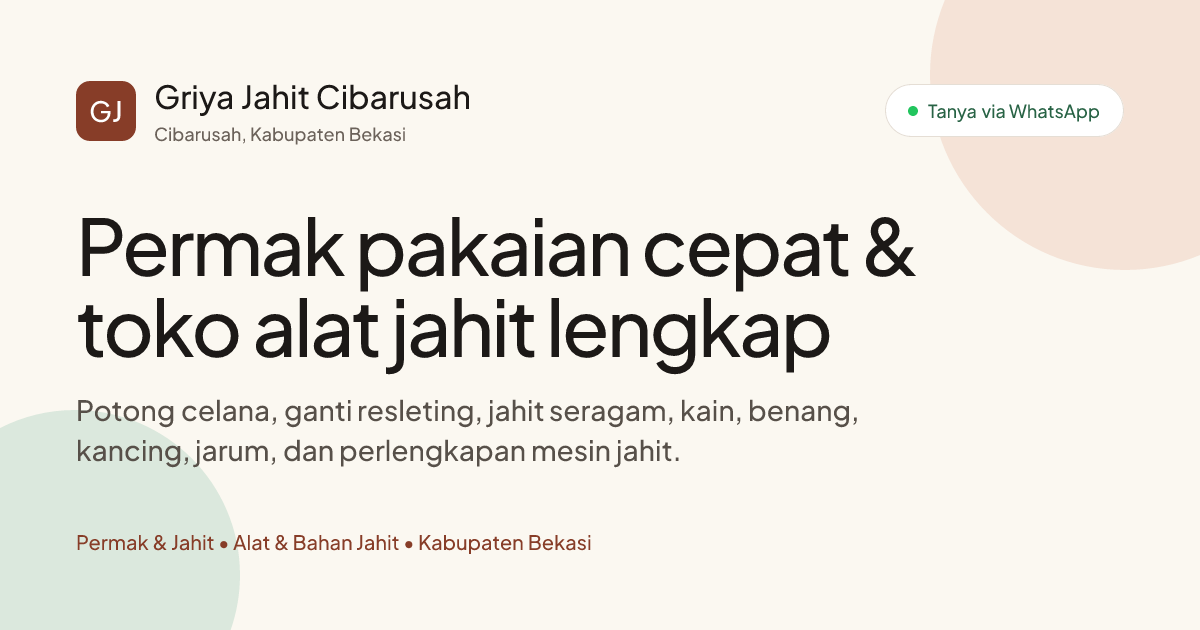
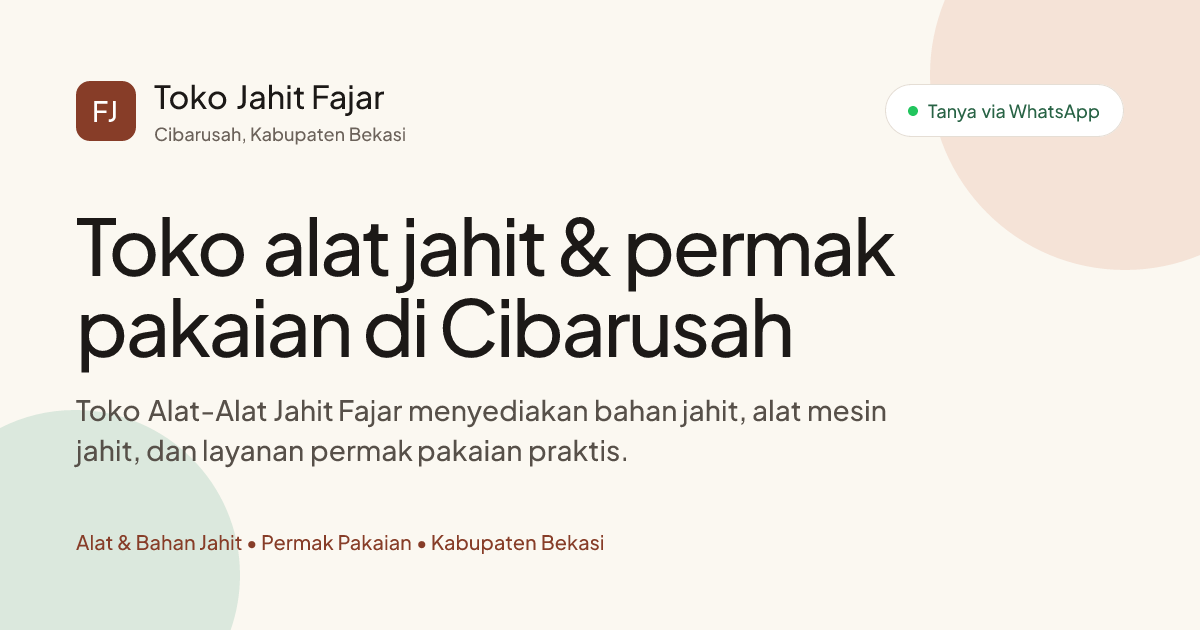
Update branding and Vercel deployment metadata

diff --git a/index.html b/index.html
@@ -6,45 +6,50 @@
     <meta name="robots" content="index, follow" />
     <meta name="theme-color" content="#fbf8f1" />
 
-    <title>Griya Jahit Cibarusah | Permak Pakaian & Toko Alat Jahit</title>
+    <title>Toko Jahit Fajar | Toko Alat Jahit & Permak Pakaian Cibarusah</title>
     <meta
       name="description"
-      content="Permak pakaian, jahit baju, dan toko alat jahit di Cibarusah, Kabupaten Bekasi. Melayani potong celana, ganti resleting, jahit seragam, kain, benang, kancing, jarum, dan perlengkapan mesin jahit."
+      content="Toko Alat-Alat Jahit Fajar menyediakan alat dan bahan jahit serta layanan permak pakaian di Cibarusah, Kabupaten Bekasi. Tersedia benang, resleting, kancing, jarum, kain, perlengkapan mesin jahit, potong celana, dan ganti resleting."
     />
-    <meta name="author" content="Griya Jahit Cibarusah" />
-    <link rel="canonical" href="https://al-mutawakkil.github.io/griya-jahit-landing-page/" />
-    <link rel="manifest" href="/griya-jahit-landing-page/site.webmanifest" />
+    <meta name="author" content="Toko Jahit Fajar" />
+    <link rel="canonical" href="https://toko-jahit-fajar.vercel.app/" />
+    <link rel="manifest" href="/site.webmanifest" />
 
     <meta property="og:type" content="website" />
-    <meta property="og:url" content="https://al-mutawakkil.github.io/griya-jahit-landing-page/" />
-    <meta property="og:title" content="Griya Jahit Cibarusah | Permak Pakaian & Toko Alat Jahit" />
+    <meta property="og:url" content="https://toko-jahit-fajar.vercel.app/" />
+    <meta property="og:title" content="Toko Jahit Fajar | Toko Alat Jahit & Permak Pakaian Cibarusah" />
     <meta
       property="og:description"
-      content="Permak pakaian, jahit baju, dan toko alat jahit di Cibarusah, Kabupaten Bekasi. Cek jasa jahit dan tanya stok alat jahit via WhatsApp."
+      content="Toko Alat-Alat Jahit Fajar menyediakan alat jahit, bahan jahit, dan layanan permak pakaian di Cibarusah, Kabupaten Bekasi."
     />
-    <meta property="og:image" content="https://al-mutawakkil.github.io/griya-jahit-landing-page/og-image.png" />
+    <meta property="og:image" content="https://toko-jahit-fajar.vercel.app/og-image.png" />
     <meta property="og:image:width" content="1200" />
     <meta property="og:image:height" content="630" />
-    <meta property="og:site_name" content="Griya Jahit Cibarusah" />
+    <meta property="og:site_name" content="Toko Jahit Fajar" />
     <meta property="og:locale" content="id_ID" />
 
     <meta name="twitter:card" content="summary_large_image" />
-    <meta name="twitter:url" content="https://al-mutawakkil.github.io/griya-jahit-landing-page/" />
-    <meta name="twitter:title" content="Griya Jahit Cibarusah | Permak Pakaian & Toko Alat Jahit" />
+    <meta name="twitter:url" content="https://toko-jahit-fajar.vercel.app/" />
+    <meta name="twitter:title" content="Toko Jahit Fajar | Toko Alat Jahit & Permak Pakaian Cibarusah" />
     <meta
       name="twitter:description"
-      content="Permak pakaian, jahit baju, dan toko alat jahit di Cibarusah, Kabupaten Bekasi."
+      content="Alat jahit, bahan jahit, dan permak pakaian di Cibarusah, Kabupaten Bekasi."
     />
-    <meta name="twitter:image" content="https://al-mutawakkil.github.io/griya-jahit-landing-page/og-image.png" />
+    <meta name="twitter:image" content="https://toko-jahit-fajar.vercel.app/og-image.png" />
 
     <script type="application/ld+json">
       {
         "@context": "https://schema.org",
-        "@type": "LocalBusiness",
-        "name": "Griya Jahit Cibarusah",
-        "url": "https://al-mutawakkil.github.io/griya-jahit-landing-page/",
-        "image": "https://al-mutawakkil.github.io/griya-jahit-landing-page/og-image.png",
-        "description": "Permak pakaian, jahit baju, dan toko alat jahit di Cibarusah, Kabupaten Bekasi.",
+        "@type": "Store",
+        "name": "Toko Alat-Alat Jahit \"Fajar\"",
+        "alternateName": [
+          "Toko Jahit Fajar",
+          "Toko Alat Jahit Fajar",
+          "Fajar Cibarusah"
+        ],
+        "url": "https://toko-jahit-fajar.vercel.app/",
+        "image": "https://toko-jahit-fajar.vercel.app/og-image.png",
+        "description": "Toko alat dan bahan jahit serta layanan permak pakaian di Cibarusah, Kabupaten Bekasi.",
         "telephone": "[phone redacted]",
         "priceRange": "$$",
         "address": {
@@ -69,8 +74,15 @@
         ],
         "hasOfferCatalog": {
           "@type": "OfferCatalog",
-          "name": "Jasa Jahit dan Toko Alat Jahit",
+          "name": "Alat Jahit, Bahan Jahit, dan Permak Pakaian",
           "itemListElement": [
+            {
+              "@type": "Offer",
+              "itemOffered": {
+                "@type": "Product",
+                "name": "Alat dan bahan jahit"
+              }
+            },
             {
               "@type": "Offer",
               "itemOffered": {
@@ -83,13 +95,6 @@
               "itemOffered": {
                 "@type": "Service",
                 "name": "Jahit pakaian baru dan seragam"
-              }
-            },
-            {
-              "@type": "Offer",
-              "itemOffered": {
-                "@type": "Product",
-                "name": "Alat dan bahan jahit"
               }
             }
           ]

diff --git a/src/App.tsx b/src/App.tsx
@@ -29,9 +29,9 @@ const heroImage = `${import.meta.env.BASE_URL}images/griya-jahit-workshop.png`;
 const suppliesImage = `${import.meta.env.BASE_URL}images/alat-bahan-jahit.png`;
 
 const repairMessage =
-  "Halo Griya Jahit Cibarusah, saya mau tanya permak/jahit pakaian. Saya akan kirim foto kondisi pakaiannya untuk dicek dulu.";
+  "Halo Toko Jahit Fajar, saya mau tanya permak/jahit pakaian. Saya akan kirim foto kondisi pakaiannya untuk dicek dulu.";
 const suppliesMessage =
-  "Halo Griya Jahit Cibarusah, saya mau tanya stok alat atau bahan jahit. Apakah bisa dibantu cek ketersediaannya?";
+  "Halo Toko Jahit Fajar, saya mau tanya stok alat atau bahan jahit. Apakah bisa dibantu cek ketersediaannya?";
 
 const categories: Array<SupplyItem["category"] | "semua"> = [
   "semua",
@@ -97,7 +97,7 @@ export default function App() {
           </div>
           <a
             className="inline-flex w-fit items-center gap-1.5 font-semibold text-emerald-300 hover:text-emerald-200"
-            href={createWhatsAppUrl("Halo Griya Jahit Cibarusah, saya mau bertanya.")}
+            href={createWhatsAppUrl("Halo Toko Jahit Fajar, saya mau bertanya.")}
             target="_blank"
             rel="noreferrer"
           >
@@ -109,16 +109,16 @@ export default function App() {
 
       <header className="sticky top-0 z-40 border-b border-stone-200 bg-cream/95 backdrop-blur">
         <div className="mx-auto flex h-18 max-w-7xl items-center justify-between px-4 sm:px-6 lg:px-8">
-          <a className="flex items-center gap-3" href="#beranda" aria-label="Griya Jahit Cibarusah">
+          <a className="flex items-center gap-3" href="#beranda" aria-label="Toko Jahit Fajar">
             <span className="grid h-11 w-11 place-items-center rounded-lg bg-clay-700 text-white shadow-sm">
               <Store size={22} />
             </span>
             <span>
               <span className="block font-serif text-xl font-bold leading-none text-stone-950">
-                Griya Jahit Cibarusah
+                Toko Jahit Fajar
               </span>
               <span className="mt-1 block text-[11px] font-semibold uppercase tracking-wide text-stone-500">
-                Permak, jahit, alat & bahan
+                Toko Alat-Alat Jahit Fajar
               </span>
             </span>
           </a>
@@ -184,39 +184,41 @@ export default function App() {
               </div>
 
               <h1 className="max-w-3xl font-serif text-4xl font-bold leading-tight tracking-tight text-stone-950 sm:text-5xl lg:text-6xl">
-                Permak pakaian cepat & toko alat jahit lengkap di Cibarusah
+                Toko Jahit Fajar
               </h1>
 
               <p className="mt-6 max-w-2xl text-base leading-8 text-stone-650 sm:text-lg">
-                Kami melayani potong celana, ganti resleting, kecilkan ukuran, jahit pakaian dari
-                bahan sendiri, sekaligus menyediakan kain, benang, kancing, jarum, dan perlengkapan
-                mesin jahit untuk kebutuhan harian di Cibarusah dan sekitar Kabupaten Bekasi.
+                Toko Alat-Alat Jahit Fajar menyediakan kain, benang, kancing, jarum, resleting,
+                dan perlengkapan mesin jahit, sekaligus melayani permak pakaian seperti potong
+                celana, ganti resleting, dan jahit sederhana di Cibarusah.
               </p>
 
               <div className="mt-8 flex flex-col gap-3 sm:flex-row">
                 <a
                   className="inline-flex min-h-12 items-center justify-center gap-2 rounded-xl bg-forest-700 px-6 py-3 text-sm font-bold text-white shadow-md hover:bg-forest-800"
+                  href={createWhatsAppUrl(suppliesMessage)}
+                  target="_blank"
+                  rel="noreferrer"
+                >
+                  <PackageSearch size={18} />
+                  Tanya Stok via WhatsApp
+                </a>
+                <a
+                  className="inline-flex min-h-12 items-center justify-center gap-2 rounded-xl border border-stone-250 bg-white px-6 py-3 text-sm font-bold text-stone-800 shadow-sm hover:border-clay-300 hover:text-clay-700"
                   href={createWhatsAppUrl(repairMessage)}
                   target="_blank"
                   rel="noreferrer"
                 >
                   <Send size={17} />
-                  Kirim Foto via WhatsApp
-                </a>
-                <a
-                  className="inline-flex min-h-12 items-center justify-center gap-2 rounded-xl border border-stone-250 bg-white px-6 py-3 text-sm font-bold text-stone-800 shadow-sm hover:border-clay-300 hover:text-clay-700"
-                  href="#alat-jahit"
-                >
-                  <PackageSearch size={18} />
-                  Cari Alat Jahit
+                  Kirim Foto Pakaian
                 </a>
               </div>
 
               <div className="mt-8 grid max-w-2xl grid-cols-1 gap-3 sm:grid-cols-3">
                 {[
                   ["Harga jelas", "Disepakati setelah pakaian dicek"],
-                  ["Lokal Cibarusah", "Melayani sekitar Bekasi Regency"],
-                  ["Dua kebutuhan", "Jasa jahit dan toko perlengkapan"],
+                  ["Lokal Cibarusah", "Melayani sekitar Kabupaten Bekasi"],
+                  ["Dua kebutuhan", "Toko perlengkapan dan jasa jahit"],
                 ].map(([title, detail]) => (
                   <div key={title} className="rounded-xl border border-stone-200 bg-white p-4 shadow-sm">
                     <p className="text-sm font-bold text-stone-950">{title}</p>
@@ -232,12 +234,12 @@ export default function App() {
                 <img
                   className="aspect-[4/3] w-full object-cover sm:aspect-[5/4]"
                   src={heroImage}
-                  alt="Interior Griya Jahit Cibarusah dengan mesin jahit dan rak kain"
+                  alt="Interior Toko Jahit Fajar dengan mesin jahit dan rak kain"
                 />
                 <div className="absolute inset-x-0 bottom-0 bg-gradient-to-t from-stone-950/85 to-transparent p-5 text-white">
                   <p className="text-xs font-bold uppercase tracking-wide text-clay-100">Workshop rumah jahit</p>
                   <p className="mt-1 text-sm text-stone-100">
-                    Perbaikan pakaian harian dan perlengkapan jahit dalam satu tempat.
+                    Alat jahit, bahan jahit, dan perbaikan pakaian harian dalam satu tempat.
                   </p>
                 </div>
               </div>
@@ -249,8 +251,8 @@ export default function App() {
           <div className="mx-auto max-w-7xl">
             <SectionIntro
               eyebrow="Pilih kebutuhan Anda"
-              title="Dua jalur yang jelas untuk pelanggan yang berbeda"
-              description="Walk-in alteration dan pembeli perlengkapan jahit punya tujuan berbeda, jadi halaman ini memisahkannya sejak awal."
+              title="Belanja alat jahit atau tanya permak pakaian"
+              description="Pembeli perlengkapan jahit dan pelanggan permak punya tujuan berbeda, jadi halaman ini memisahkannya sejak awal."
             />
 
             <div className="mt-10 grid gap-5 lg:grid-cols-3">
@@ -408,7 +410,7 @@ export default function App() {
                       <a
                         className="mt-4 inline-flex items-center gap-1.5 text-xs font-bold text-forest-800 hover:text-forest-900"
                         href={createWhatsAppUrl(
-                          `Halo Griya Jahit Cibarusah, saya mau tanya stok ${item.name}. Apakah tersedia?`,
+                          `Halo Toko Jahit Fajar, saya mau tanya stok ${item.name}. Apakah tersedia?`,
                         )}
                         target="_blank"
                         rel="noreferrer"
@@ -497,7 +499,7 @@ export default function App() {
               <div className="mt-7 flex flex-col gap-3 sm:flex-row">
                 <a
                   className="inline-flex min-h-12 items-center justify-center gap-2 rounded-xl bg-forest-700 px-6 py-3 text-sm font-bold text-white hover:bg-forest-800"
-                  href={createWhatsAppUrl("Halo Griya Jahit Cibarusah, saya mau tanya alamat dan jam buka toko.")}
+                  href={createWhatsAppUrl("Halo Toko Jahit Fajar, saya mau tanya alamat dan jam buka toko.")}
                   target="_blank"
                   rel="noreferrer"
                 >
@@ -534,7 +536,7 @@ export default function App() {
       <footer className="border-t border-stone-200 bg-stone-950 px-4 py-8 text-stone-300 sm:px-6 lg:px-8">
         <div className="mx-auto flex max-w-7xl flex-col gap-4 sm:flex-row sm:items-center sm:justify-between">
           <div>
-            <p className="font-serif text-lg font-bold text-white">Griya Jahit Cibarusah</p>
+            <p className="font-serif text-lg font-bold text-white">Toko Jahit Fajar</p>
             <p className="mt-1 text-xs text-stone-400">Permak pakaian, jahit custom, alat & bahan jahit.</p>
           </div>
           <a

diff --git a/src/data.ts b/src/data.ts
@@ -14,6 +14,13 @@ export const DISPLAY_PHONE = "0812-3456-789";
 
 export const serviceItems: ServiceItem[] = [
   {
+    title: "Toko Alat & Bahan Jahit",
+    description:
+      "Perlengkapan menjahit untuk kebutuhan rumah tangga, sekolah, hobi, dan penjahit rumahan sekitar Cibarusah.",
+    examples: ["Kain", "Benang", "Kancing", "Jarum dan resleting"],
+    icon: Package,
+  },
+  {
     title: "Permak & Reparasi Cepat",
     description:
       "Untuk pakaian harian yang perlu segera dipakai kembali. Kami cek kondisi dulu supaya harga dan waktu pengerjaan jelas di awal.",
@@ -26,13 +33,6 @@ export const serviceItems: ServiceItem[] = [
       "Jahit baju dari bahan sendiri untuk kebutuhan kerja, sekolah, keluarga, acara, atau pesanan satuan.",
     examples: ["Kemeja", "Seragam", "Gamis", "Kebaya sederhana"],
     icon: Shirt,
-  },
-  {
-    title: "Toko Alat & Bahan Jahit",
-    description:
-      "Perlengkapan menjahit untuk kebutuhan rumah tangga, sekolah, hobi, dan penjahit rumahan sekitar Cibarusah.",
-    examples: ["Kain", "Benang", "Kancing", "Jarum dan resleting"],
-    icon: Package,
   },
 ];
 

diff --git a/scripts/gen-og.ts b/scripts/gen-og.ts
@@ -102,7 +102,7 @@ function buildMarkup() {
                           fontSize: 28,
                           fontWeight: 800,
                         },
-                        children: "GJ",
+                        children: "FJ",
                       },
                     },
                     {
@@ -114,7 +114,7 @@ function buildMarkup() {
                             type: "div",
                             props: {
                               style: { fontSize: 32, fontWeight: 800 },
-                              children: "Griya Jahit Cibarusah",
+                              children: "Toko Jahit Fajar",
                             },
                           },
                           {
@@ -189,7 +189,7 @@ function buildMarkup() {
                     fontWeight: 800,
                     letterSpacing: "-0.035em",
                   },
-                  children: "Permak pakaian cepat & toko alat jahit lengkap",
+                  children: "Toko alat jahit & permak pakaian di Cibarusah",
                 },
               },
               {
@@ -203,7 +203,7 @@ function buildMarkup() {
                     maxWidth: 860,
                   },
                   children:
-                    "Potong celana, ganti resleting, jahit seragam, kain, benang, kancing, jarum, dan perlengkapan mesin jahit.",
+                    "Toko Alat-Alat Jahit Fajar menyediakan bahan jahit, alat mesin jahit, dan layanan permak pakaian praktis.",
                 },
               },
             ],
@@ -220,7 +220,7 @@ function buildMarkup() {
               fontWeight: 700,
               color: "#873d28",
             },
-            children: "Permak & Jahit  •  Alat & Bahan Jahit  •  Kabupaten Bekasi",
+            children: "Alat & Bahan Jahit  •  Permak Pakaian  •  Kabupaten Bekasi",
           },
         },
       ],

diff --git a/vite.config.ts b/vite.config.ts
@@ -5,7 +5,6 @@ import {defineConfig} from 'vite';
 
 export default defineConfig(() => {
   return {
-    base: '/griya-jahit-landing-page/',
     plugins: [react(), tailwindcss()],
     resolve: {
       alias: {

diff --git a/README.md b/README.md
@@ -1,6 +1,6 @@
-# Griya Jahit Cibarusah Landing Page
+# Toko Jahit Fajar Landing Page
 
-Landing page for a local tailor shop in Cibarusah, Kabupaten Bekasi. The page presents two customer paths: clothing alterations/sewing services and sewing tools/material inquiries.
+Landing page for Toko Alat-Alat Jahit "Fajar", a local sewing supplies shop and practical alteration service in Cibarusah, Kabupaten Bekasi. The page presents two customer paths: sewing tools/material inquiries and clothing alterations/sewing services.
 
 ## Stack
 
@@ -32,8 +32,9 @@ Generate the Open Graph image:
 pnpm og
 ```
 
-The temporary canonical URL targets GitHub Pages:
+The temporary canonical URL targets Vercel:
 
-`https://al-mutawakkil.github.io/griya-jahit-landing-page/`
+`https://toko-jahit-fajar.vercel.app/`
 
 Replace the URL, phone number, and exact address before publishing with a custom domain.
+Planned custom domain: `tokojahitfajar.com`.